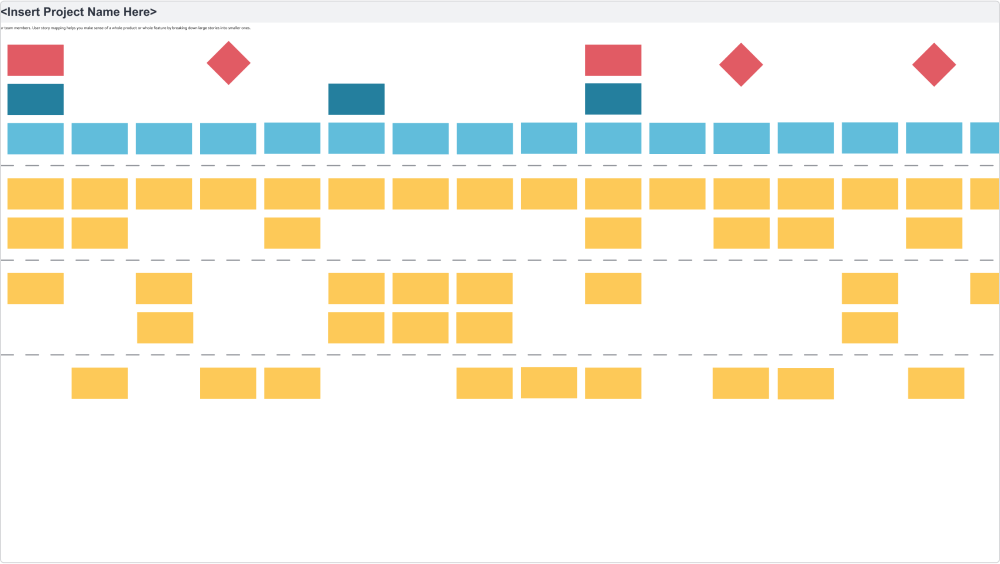
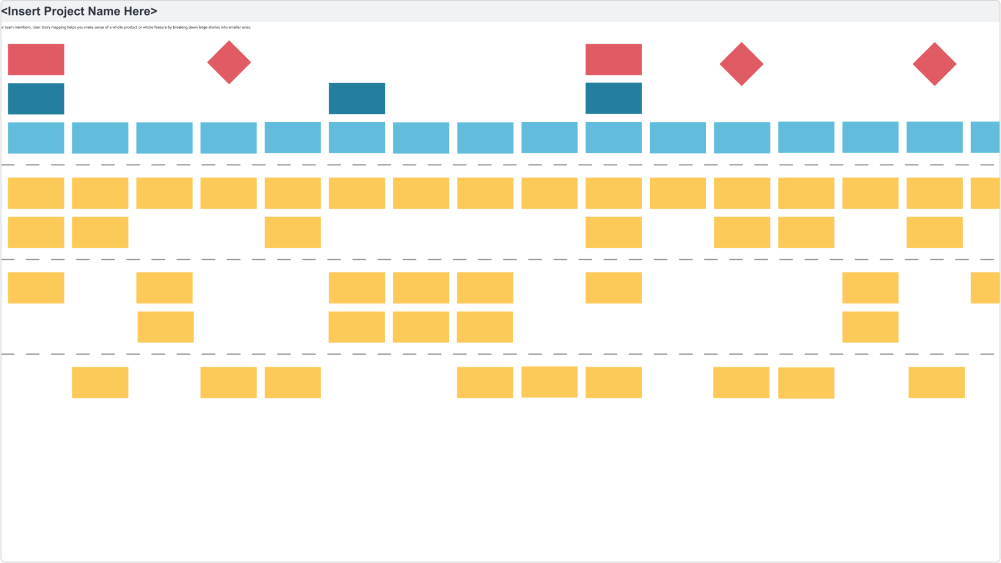
feat(style-guide): Add storyMapping image

diff --git a/style-guide/src/components/handover-process/PhaseOne.js b/style-guide/src/components/handover-process/PhaseOne.js
@@ -4,6 +4,7 @@ import React from 'react';
 import PhaseHeader from "./PhaseHeader";
 import ResourceBox from "./ResourceBox";
 import Quote from "./Quote";
+import storyMapping from '../../assets/storyMapping.png';
 
 export default ({addHashRoute}) => {
   return (
@@ -31,11 +32,7 @@ export default ({addHashRoute}) => {
 
         <Quote title="quote1" />
       </div>
-      <iframe
-        className={styles.figmaEmbed}
-        src="https://www.figma.com/embed?embed_host=share&url=https%3A%2F%2Fwww.figma.com%2Ffile%2Fycka6tvpSm1ZAzYJtq3GNw%2FCollaboration-Templates%3Fnode-id%3D269%253A977&chrome=DOCUMENTATION"
-        allowFullScreen
-      />
+      <img className={styles.illustration} src={storyMapping} alt="storyMapping" />
     </>
   );
 };

diff --git a/style-guide/src/styles/handover.module.scss b/style-guide/src/styles/handover.module.scss
@@ -118,14 +118,6 @@
   max-width: 1026px;
 }
 
-.figma-embed {
-  width: 1000px;
-  height: 560px;
-  display: flex;
-  justify-content: center;
-  margin: 0 auto;
-}
-
 //PhaseBox styles
 
 .boxContainer {
@@ -221,7 +213,7 @@
   .phaseNav {
     display: none;
   }
-  .illustration, .figma-embed {
+  .illustration {
     width: 100%;
   }
 }
